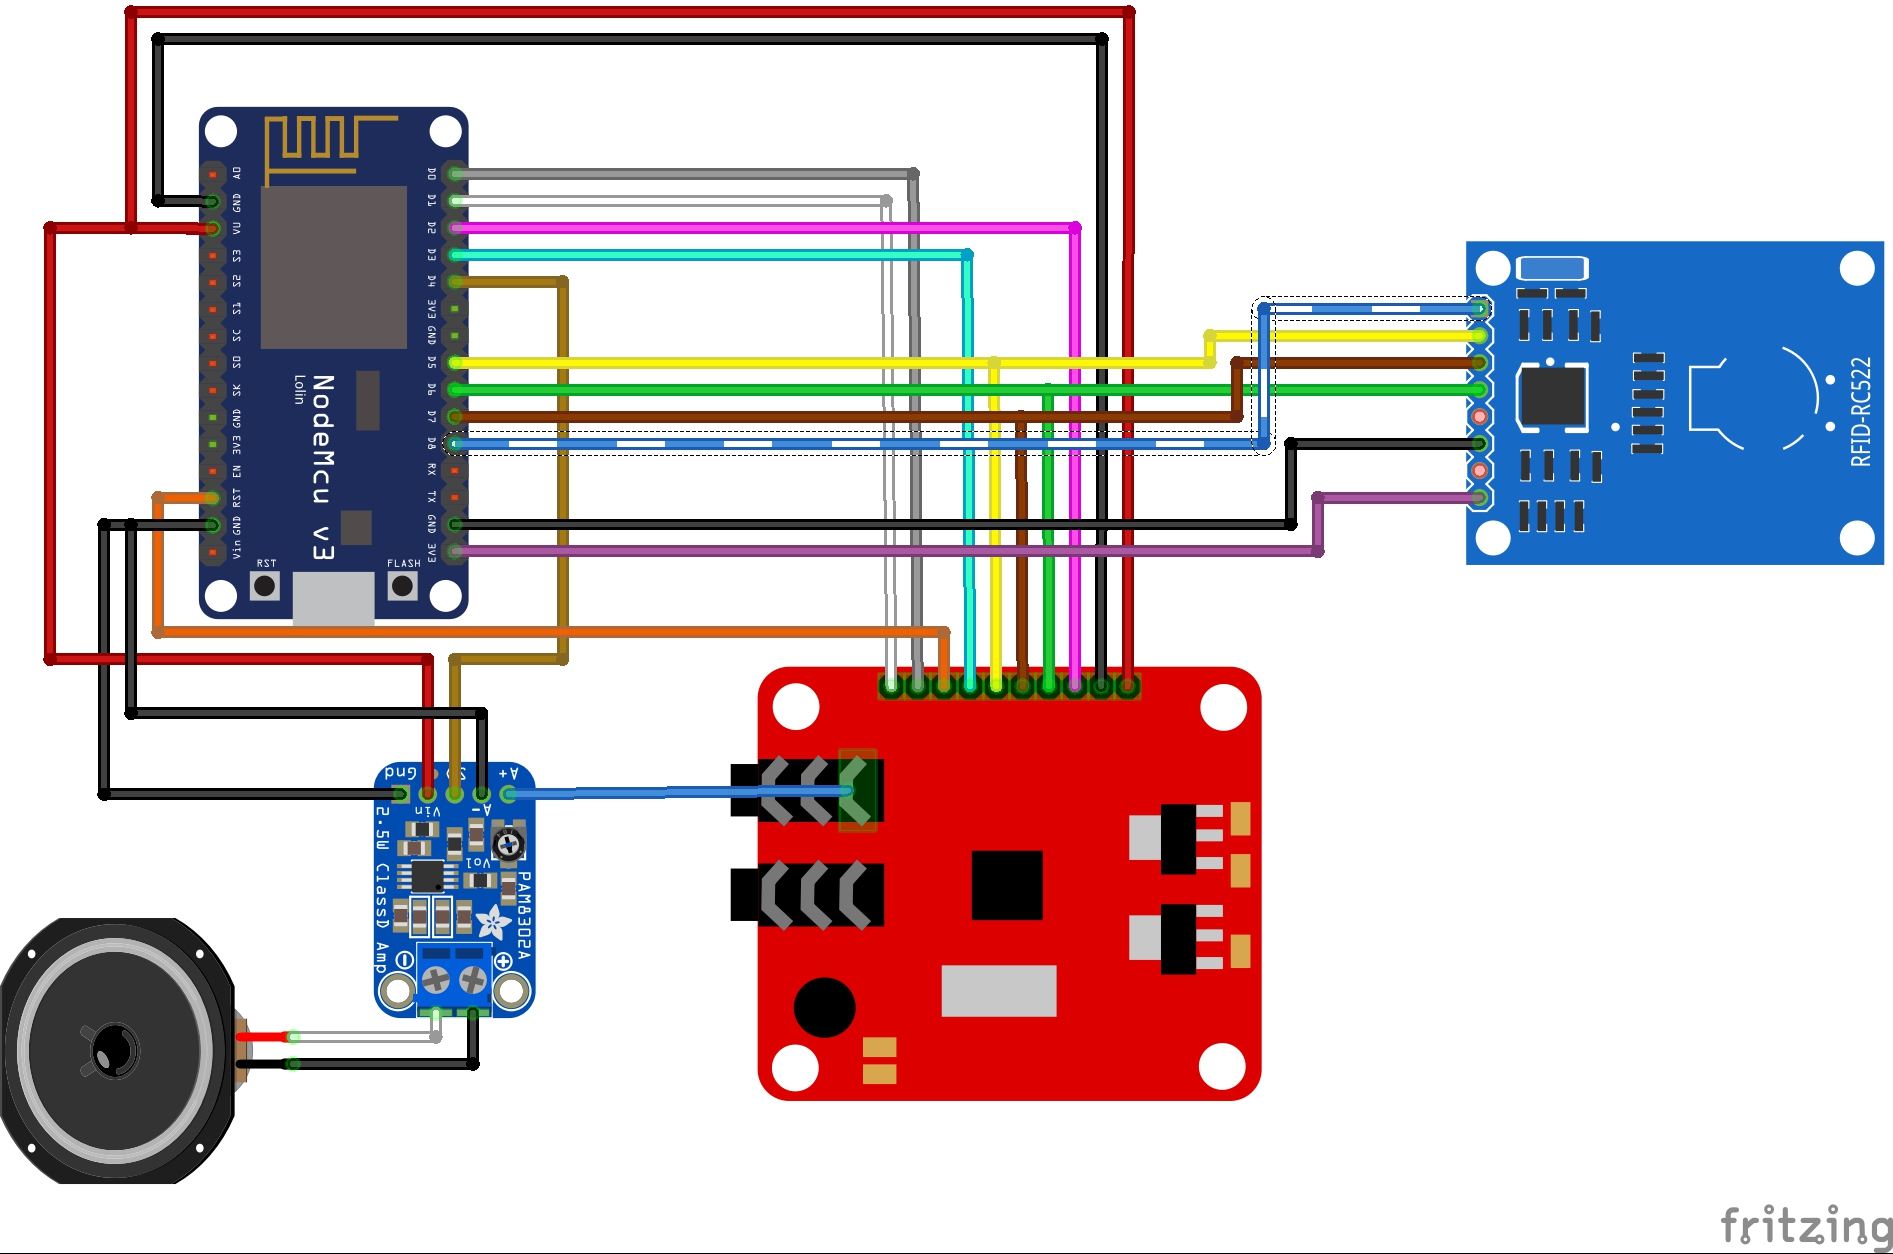
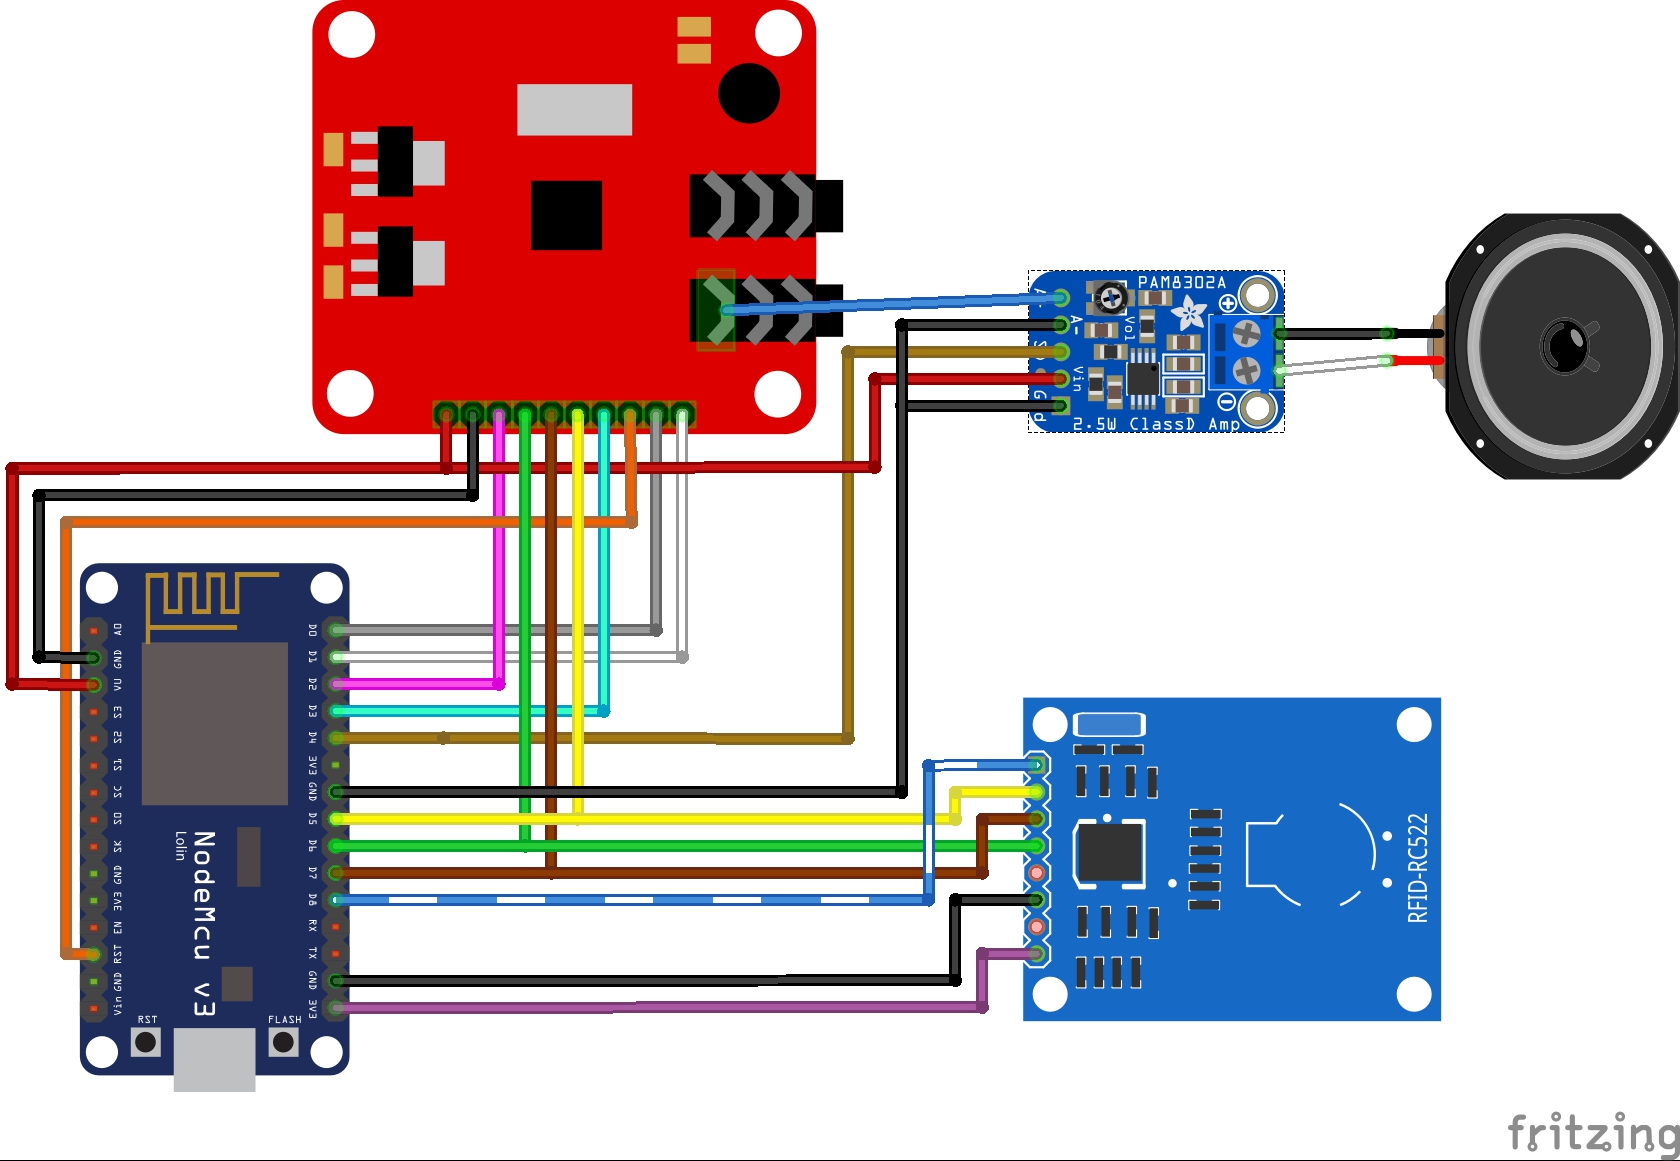
Minor changes
* Reformated wiring diagramm
* Added list of required tools

diff --git a/README.md b/README.md
@@ -27,6 +27,12 @@ Rfid cards can the be assigned a folder containing MP3 files on a SD card, playe
 * /ShelfBoard KiCad source files for the shelf board pcb
 * /ShelfBoard/gerber current shelf board gerber files
 
+## Tools required
+* Electric drill
+* Hole saw (if you don't have one, you can [get it at ikea](http://www.ikea.com/us/en/catalog/products/20302332/) together with the shelf)
+* Soldering iron
+* Long, stable screw driver or something similar
+
 ## Hardware
 I tried a variety of hardware combinations both focusing on being cheap and easy to assemble. Based on that I can recommend a few setups, depending on your budget and your ability/willingness to solder. Most items can be bought on Aliexpress for a few bucks, the links are only meant to be an example.
 
